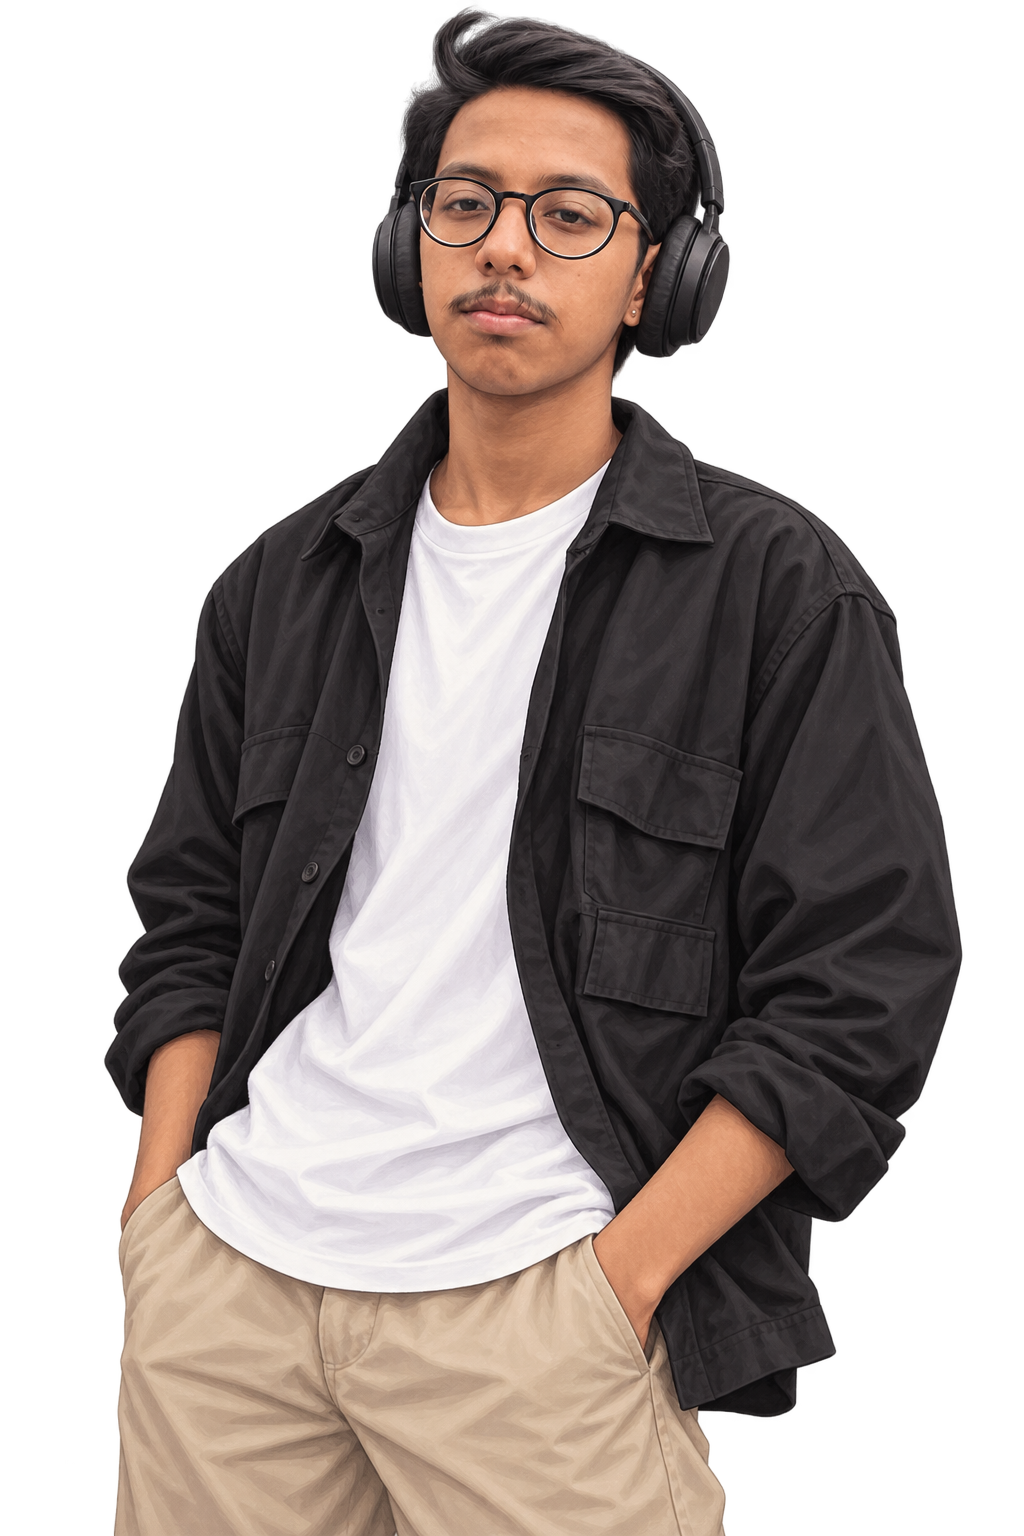
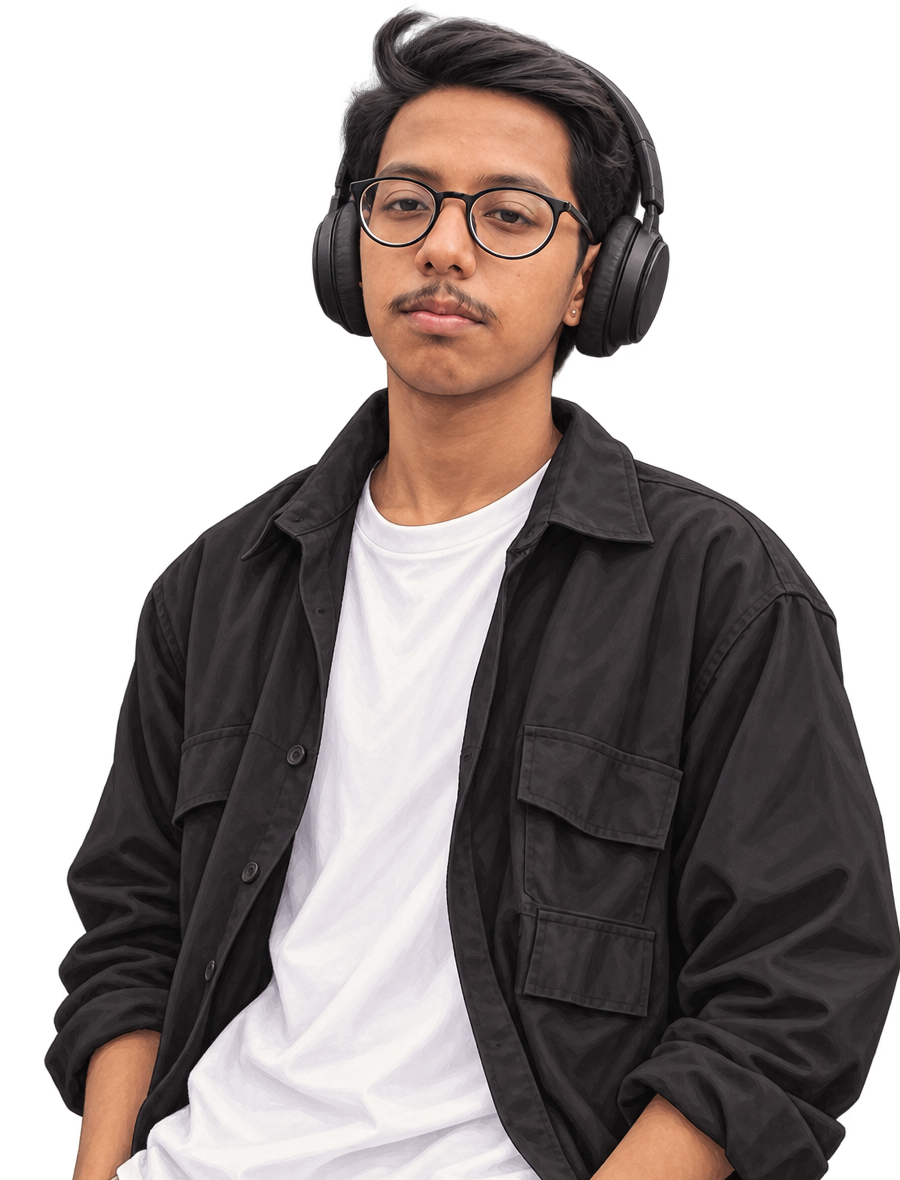
fix(hero): frame profile portrait waist-up and restore floating project cards to match reference layout

diff --git a/src/components/sections/Hero.jsx b/src/components/sections/Hero.jsx
@@ -56,18 +56,16 @@ export default function Hero() {
       onMouseLeave={handleMouseLeave}
       style={{ position: "relative", minHeight: "100vh", display: "flex", flexDirection: "column", justifyContent: "center", padding: "100px 32px 60px", overflow: "hidden" }}
     >
-      {!reduced && (
-        <div style={{ position: "absolute", inset: 0, pointerEvents: "none", zIndex: 1, display: "flex", justifyContent: "center" }}>
-          <div style={{ position: "relative", width: "100%", maxWidth: 1080, height: "100%" }}>
-            <DocLayer mx={smx} my={smy} depth={22} rotate={-6} imageSrc="./project_images/restaurant.png" box={{ width: isMobile ? 180 : 260, height: isMobile ? 120 : 170, top: isMobile ? "58%" : "14%", right: isMobile ? "2%" : "0%" }} />
-            <DocLayer mx={smx} my={smy} depth={14} rotate={4} imageSrc="./project_images/rock_paper_scissors.png" box={{ width: isMobile ? 160 : 240, height: isMobile ? 100 : 150, top: isMobile ? "61%" : "25%", right: isMobile ? "48%" : "10%" }} />
-            <DocLayer mx={smx} my={smy} depth={30} rotate={9} imageSrc="./project_images/blood_donation.png" box={{ width: isMobile ? 150 : 220, height: isMobile ? 95 : 140, top: isMobile ? "69%" : "34%", right: isMobile ? "-5%" : "-8%", opacity: 0.85 }} />
-          </div>
+      <div style={{ position: "absolute", inset: 0, pointerEvents: "none", zIndex: 1, display: "flex", justifyContent: "center" }}>
+        <div style={{ position: "relative", width: "100%", maxWidth: 1080, height: "100%" }}>
+          <DocLayer mx={smx} my={smy} depth={22} rotate={-6} imageSrc="./project_images/restaurant.png" box={{ width: isMobile ? 180 : 260, height: isMobile ? 120 : 170, top: isMobile ? "58%" : "14%", right: isMobile ? "2%" : "0%" }} />
+          <DocLayer mx={smx} my={smy} depth={14} rotate={4} imageSrc="./project_images/rock_paper_scissors.png" box={{ width: isMobile ? 160 : 240, height: isMobile ? 100 : 150, top: isMobile ? "61%" : "25%", right: isMobile ? "48%" : "10%" }} />
+          <DocLayer mx={smx} my={smy} depth={30} rotate={9} imageSrc="./project_images/blood_donation.png" box={{ width: isMobile ? 150 : 220, height: isMobile ? 95 : 140, top: isMobile ? "69%" : "34%", right: isMobile ? "-5%" : "-8%", opacity: 0.85 }} />
         </div>
-      )}
+      </div>
 
       <div style={{ position: "relative", zIndex: 10, maxWidth: 1080, margin: "0 auto", width: "100%" }}>
-        <div style={{ display: "grid", gridTemplateColumns: "1.2fr 1fr", gap: 64, alignItems: "center" }} className="kk-grid-collapse">
+        <div style={{ display: "grid", gridTemplateColumns: "1.2fr 1fr", gap: "40px", alignItems: "center" }} className="kk-grid-collapse">
           <div>
             <div style={{ ...mono, display: "flex", alignItems: "center", gap: 10, fontSize: 12, letterSpacing: 2, textTransform: "uppercase", color: c.clay, marginBottom: 26 }}>
               <span style={{ width: 26, height: 1, background: c.clay }} />
@@ -154,7 +152,7 @@ export default function Hero() {
             </div>
           </div>
 
-          <div style={{ position: "relative", display: "flex", justifyContent: "center", alignItems: "center" }}>
+          <div style={{ position: "relative", display: "flex", justifyContent: "center", pointerEvents: "none" }}>
             <img
               src="./ashmit.png"
               alt="Ashmit Paul"
@@ -164,12 +162,12 @@ export default function Hero() {
               decoding="async"
               style={{
                 width: "100%",
-                maxWidth: 420,
-                height: "auto",
-                objectFit: "contain",
-                display: "block",
+                maxWidth: 380,
+                borderRadius: 24,
                 userSelect: "none",
                 pointerEvents: "none",
+                WebkitMaskImage: "linear-gradient(to bottom, black 75%, transparent 100%)",
+                maskImage: "linear-gradient(to bottom, black 75%, transparent 100%)",
               }}
             />
           </div>
